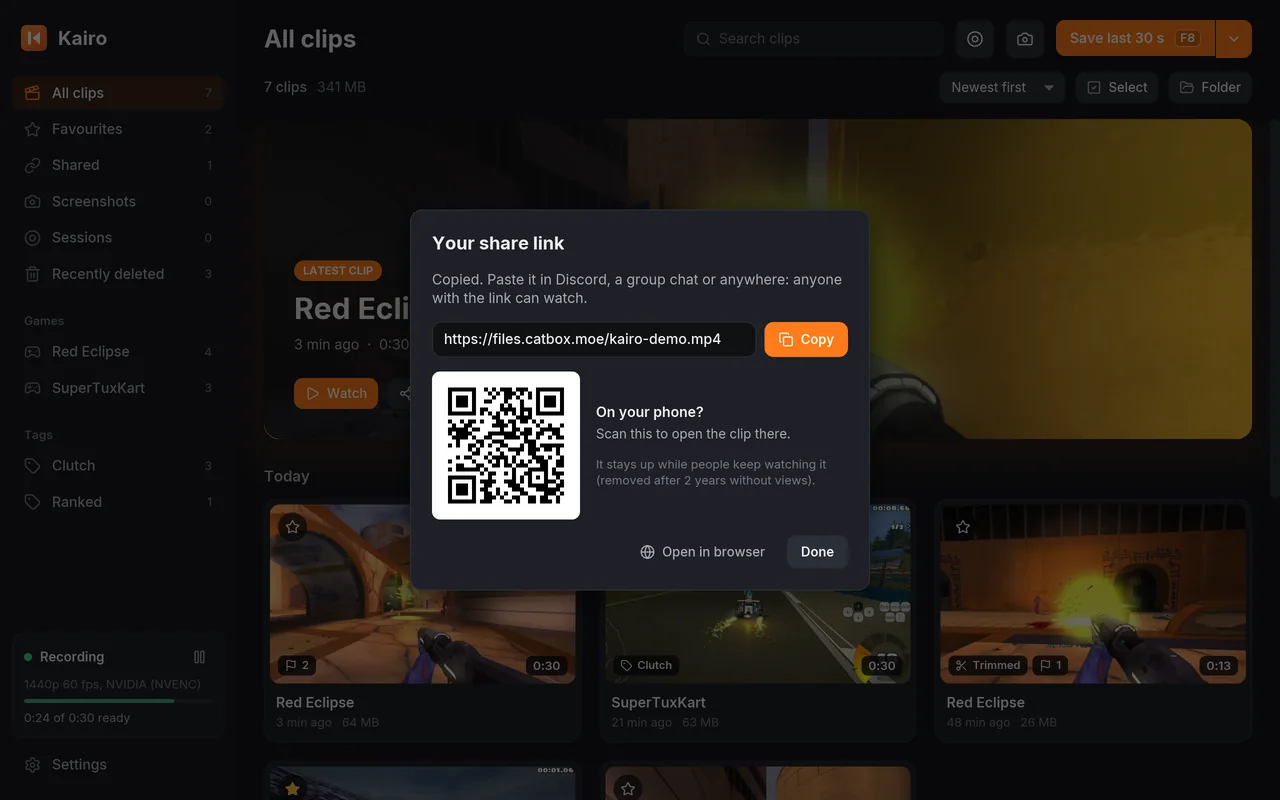
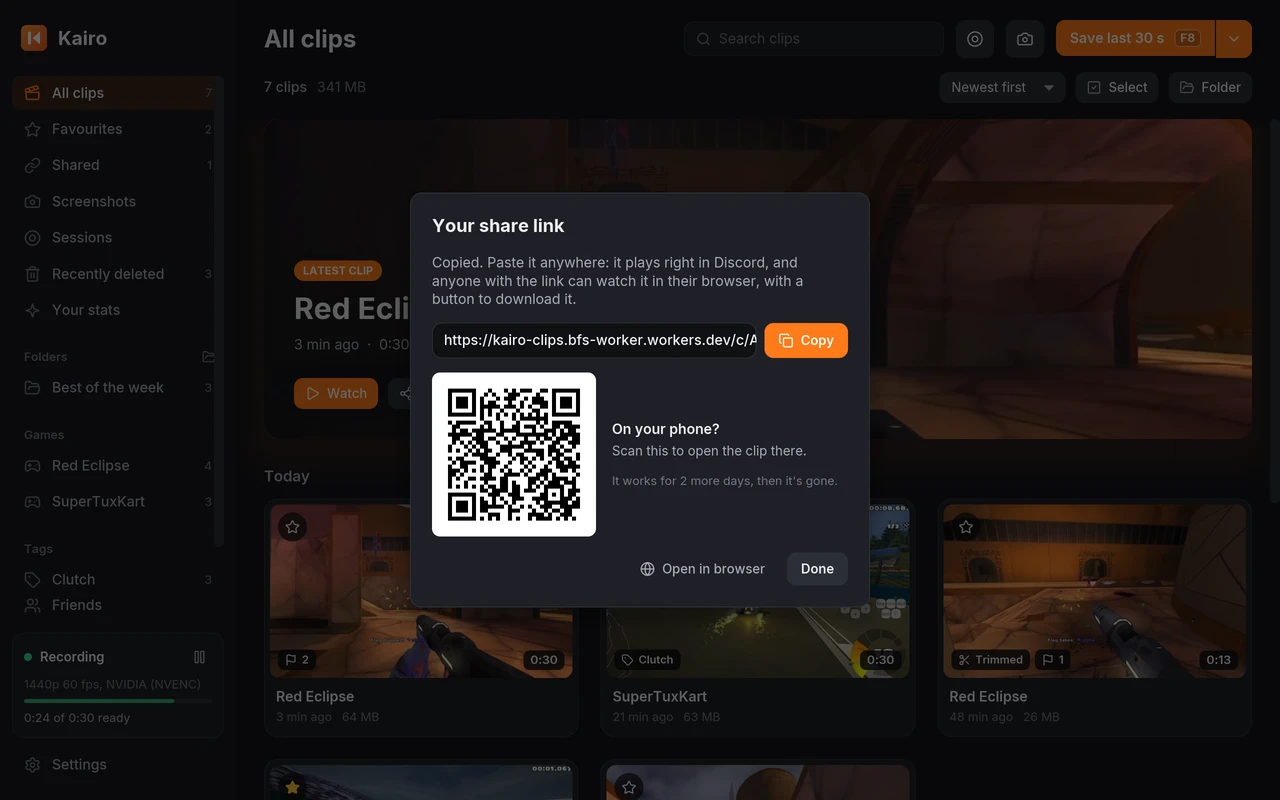
Website: Friends, the new share links, and the mic
- The tour gains a Friends tab (screenshot rendered by gui::preview from the licensed Red Eclipse
  and SuperTuxKart fixture, made-up names), the feature grid a "Send clips to friends" card.
- Share link: the screenshot shows the clip page link and "2 more days"; the text says Kairo
  tries the next host when one is down.
- "No account" claims now say: unless you use Friends; the data FAQ names what Friends keeps and
  links to the privacy notice.
- The sound card mentions finding a mic plugged in without a restart.

diff --git a/docs/index.html b/docs/index.html
@@ -189,6 +189,7 @@
       <button role="tab" id="tab-library" aria-controls="panel-library" aria-selected="true">Library</button>
       <button role="tab" id="tab-editor" aria-controls="panel-editor" aria-selected="false" tabindex="-1">Editor</button>
       <button role="tab" id="tab-share" aria-controls="panel-share" aria-selected="false" tabindex="-1">Share link</button>
+      <button role="tab" id="tab-friends" aria-controls="panel-friends" aria-selected="false" tabindex="-1">Friends</button>
       <button role="tab" id="tab-shots" aria-controls="panel-shots" aria-selected="false" tabindex="-1">Screenshots</button>
       <button role="tab" id="tab-stats" aria-controls="panel-stats" aria-selected="false" tabindex="-1">Your stats</button>
       <button role="tab" id="tab-updates" aria-controls="panel-updates" aria-selected="false" tabindex="-1">Updates</button>
@@ -219,11 +220,21 @@
       <div class="panel" role="tabpanel" id="panel-share" aria-labelledby="tab-share" hidden>
         <div class="panel-copy">
           <h3>One click, one link.</h3>
-          <p>Kairo uploads the clip and copies a link friends can watch in their browser. Discord plays it inline, and the QR code opens it on your phone.</p>
+          <p>Kairo uploads the clip and copies the link. Anyone with it can watch or download the clip, and the QR code opens it on your phone. If a file host is down, Kairo tries the next one.</p>
           <p class="soft">Or skip the clicks: give “Save and share” a key, and one press saves the clip, uploads it and copies the link. Links open a clip page that plays in any browser and right in Discord, and last 2 days.</p>
         </div>
         <figure class="shot" data-ui>
           <img loading="lazy" src="media/site/share-1280.webp" srcset="media/site/share-1280.webp 1280w, media/site/share-2560.webp 2560w" sizes="(max-width: 1000px) 100vw, 900px" width="1280" height="800" alt="The share link dialog in Kairo: the link with a Copy button, a QR code for phones, and how long the link lasts">
+        </figure>
+      </div>
+      <div class="panel" role="tabpanel" id="panel-friends" aria-labelledby="tab-friends" hidden>
+        <div class="panel-copy">
+          <h3>Straight to your friends.</h3>
+          <p>Sign in with Google, pick a username and add friends by theirs. Press Send to friends on any clip, tick one friend, a few or Everyone, and add a message if you like.</p>
+          <p class="soft">They get a pop-up on their PC and watch with one click, and you can chat on the Friends page. Messages are kept on Kairo’s server and aren’t end-to-end encrypted. <a href="legal.html#app-privacy">What’s kept and who can see it</a>.</p>
+        </div>
+        <figure class="shot" data-ui>
+          <img loading="lazy" src="media/site/friends-1280.webp" srcset="media/site/friends-1280.webp 1280w, media/site/friends-2560.webp 2560w" sizes="(max-width: 1000px) 100vw, 900px" width="1280" height="800" alt="Kairo’s Friends page: a chat with a friend, with a Red Eclipse clip they sent and its Watch button, their messages and your reply, and a box to write to them">
         </figure>
       </div>
       <div class="panel" role="tabpanel" id="panel-shots" aria-labelledby="tab-shots" hidden>
@@ -295,12 +306,13 @@
     <ul class="feat">
       <li><h3>Light on your games</h3><p>Encoded on the GPU: NVIDIA NVENC, AMD AMF, Intel and others, Apple VideoToolbox, with x264 as a fallback. H.265 where your card has it.</p></li>
       <li><h3>Say “clip that”</h3><p>Voice clipping saves a clip when you say so. Speech is recognised on your computer and never sent anywhere.</p></li>
-      <li><h3>Every sound on its own track</h3><p>Game sound and your mic are mixed, and each is also kept separately for editing. Turn your mic up or down and test it in Settings. On Windows 11, voice chat gets its own track too.</p></li>
+      <li><h3>Every sound on its own track</h3><p>Game sound and your mic are mixed, and each is also kept separately for editing. Turn your mic up or down and test it in Settings, and Kairo finds a mic you plug in without a restart. On Windows 11, voice chat gets its own track too.</p></li>
       <li><h3>Longer clips and sessions</h3><p>Clips up to 20 minutes, quick-save keys with their own lengths, and whole sessions of up to 5 hours with bookmarks.</p></li>
       <li><h3>Made for Discord</h3><p>One click makes a copy under 10 MB (or 50 and 500 MB for Nitro) and puts it on your clipboard, or posts it to your channel.</p></li>
       <li><h3>Montages and more formats</h3><p>Join clips into one video that dips to black between them. Export GIFs, vertical 9:16 copies and slow motion.</p></li>
-      <li><h3>Nothing leaves your PC</h3><p>No account, no ads, no tracking and no watermark. A clip is only uploaded when you ask for a share link.</p></li>
+      <li><h3>Nothing leaves your PC</h3><p>No ads, no tracking and no watermark, and no account unless you use Friends. A clip is only uploaded when you share it or send it to friends.</p></li>
       <li><h3>Save and share, one key</h3><p>Give it a shortcut and one press saves the clip, uploads it and copies the link, ready to paste in a chat.</p></li>
+      <li><h3>Send clips to friends</h3><p>Sign in with Google, add friends by username and send them clips and messages. They get a pop-up on their PC, and the clip plays with one click.</p></li>
       <li><h3>Your stats</h3><p>Clips kept, play time, storage, your top games, the last two weeks and your streak of days with a clip.</p></li>
       <li><h3>Never miss an update</h3><p>A notice tells you when a new version is out and what’s in it. Each download is checked against its published checksum.</p></li>
       <li><h3>Text that moves</h3><p>Type a line, drag it where you want it and pick how it arrives: a pop, a slide or a blur, drawn with motion blur.</p></li>
@@ -358,7 +370,7 @@
     <div class="qs">
       <details>
         <summary>Is it really free?</summary>
-        <p>Yes, all of it. There’s no paid tier, no account, no ads and no watermark on your clips. Kairo is open source under the MIT licence, so anyone can read and build the code.</p>
+        <p>Yes, all of it. There’s no paid tier, no ads and no watermark on your clips, and you don’t need an account. Kairo is open source under the MIT licence, so anyone can read and build the code.</p>
       </details>
       <details>
         <summary>Will it slow my games down?</summary>
@@ -370,7 +382,7 @@
       </details>
       <details>
         <summary>Does Kairo collect any data?</summary>
-        <p>No. There’s no account, no analytics and no tracking. Kairo only goes online to check for updates, to download the speech model the first time you turn on voice clipping or captions, and to upload a clip when you ask for a share link or post it to your Discord channel. <a href="legal.html#app-privacy">The details</a>.</p>
+        <p>Not unless you sign in to Friends. There are no analytics and no tracking, and you don’t need an account. Kairo only goes online to check for updates, to download the speech model the first time you turn on voice clipping or captions, to upload a clip when you share it or post it to your Discord channel, and for Friends, which keeps your username, friends and messages on Kairo’s server. <a href="legal.html#app-privacy">The details</a>.</p>
       </details>
       <details>
         <summary>How do updates work?</summary>

diff --git a/docs/site.css b/docs/site.css
@@ -246,6 +246,7 @@ kbd { font: inherit; }
 .panel[hidden] { display: none; }
 .panel-copy h3 { font-size: clamp(26px, 2.3vw, 36px); font-weight: 700; letter-spacing: -0.025em; line-height: 1.1; }
 .panel-copy p { margin-top: 16px; font-size: var(--s-body); max-width: 30em; }
+.panel-copy a { color: var(--ink); text-underline-offset: 3px; }
 .shot { border-radius: var(--radius); overflow: hidden; background: var(--raised); border: 1px solid var(--ui-line); }
 .shot img { width: 100%; height: auto; }
 .panel.enter .shot { animation: shot-in 520ms var(--ease) both; }
